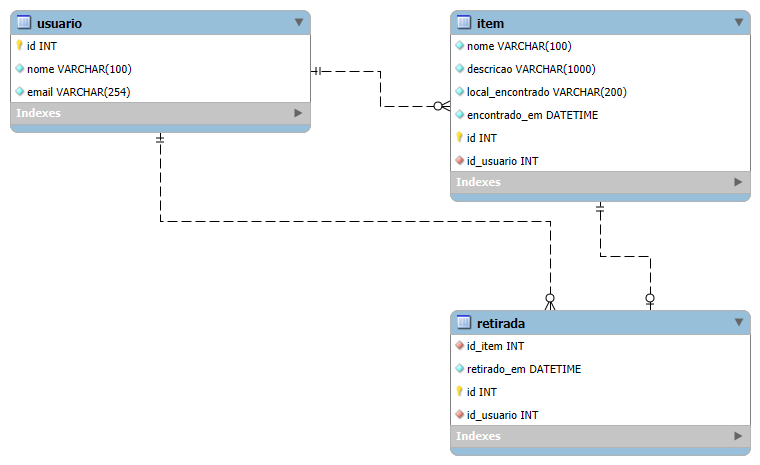
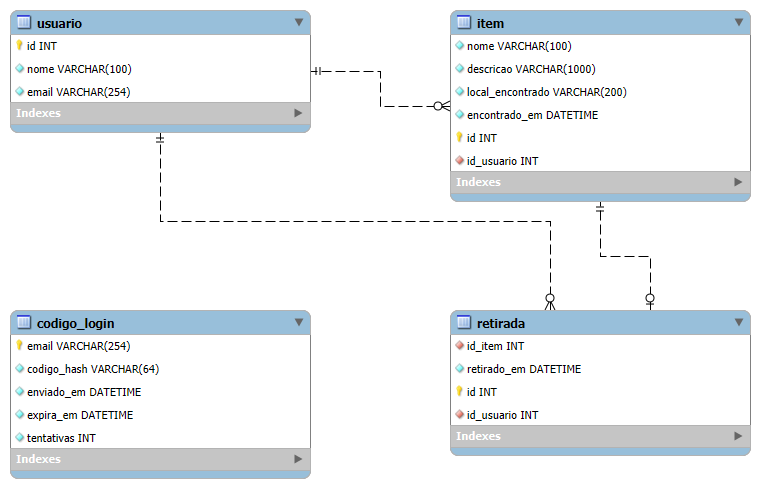
docs: document email login and update Workbench model

diff --git a/README.md b/README.md
@@ -4,7 +4,7 @@ API REST de achados e perdidos do campus Insper, desenvolvida como projeto indiv
 
 ## Endpoints
 
-As rotas de itens e retiradas exigem autenticação. A raiz e a documentação são públicas.
+As rotas de itens e retiradas exigem autenticação. A raiz, as rotas de login e a documentação são públicas.
 
 `GET /` retorna:
 
@@ -70,7 +70,38 @@ Um item com retirada registrada não pode ser excluído: a API retorna 409. Excl
 
 ## Autenticação
 
-As requisições às rotas protegidas devem enviar `Authorization: Bearer <token>`. A API valida a assinatura JWT com HS256, a validade, o emissor `achados-perdidos-insper`, o destinatário `achados-perdidos-api` e o e-mail no campo `sub`, que deve corresponder a um usuário cadastrado. São aceitos apenas os domínios `al.insper.edu.br` e `insper.edu.br`.
+O login usa um código enviado ao e-mail institucional. São aceitos apenas os domínios `al.insper.edu.br` e `insper.edu.br`. Uma conta Gmail configurada no servidor envia as mensagens.
+
+| Método | Rota | Operação |
+| --- | --- | --- |
+| POST | `/auth/solicitar-codigo` | Enviar código ao e-mail informado |
+| POST | `/auth/verificar-codigo` | Confirmar o código e receber um token de acesso |
+
+Solicite o código com:
+
+```json
+{"email": "maria@al.insper.edu.br"}
+```
+
+Depois, confirme o código recebido. No primeiro acesso, informe também o nome:
+
+```json
+{
+  "email": "maria@al.insper.edu.br",
+  "codigo": "123456",
+  "nome": "Maria Silva"
+}
+```
+
+O usuário só é cadastrado após a confirmação. Nos próximos acessos, `nome` pode ser omitido; o login preserva o nome já cadastrado. A resposta contém `token_acesso`, `tipo_token` (`bearer`) e `expira_em`, em UTC. O token vale por uma hora.
+
+O código tem seis dígitos, vale por dez minutos e permite até cinco tentativas incorretas. Cada e-mail pode solicitar um código a cada 60 segundos; um reenvio substitui o anterior. Códigos utilizados, expirados ou bloqueados por tentativas não permitem entrar. O banco armazena somente um hash HMAC-SHA256 do código, vinculado ao e-mail e à chave da aplicação.
+
+Para acessar as rotas protegidas, envie `Authorization: Bearer <token_acesso>`. A API valida a assinatura JWT com HS256, a validade, o emissor `achados-perdidos-insper`, o destinatário `achados-perdidos-api` e o e-mail no campo `sub`, que deve corresponder a um usuário cadastrado. O Swagger permite informar o token no botão **Authorize**.
+
+Dados de login inválidos, incluindo e-mails de outros domínios, retornam 422. Código inválido ou expirado retorna 401; solicitar outro código antes do intervalo retorna 429 com `Retry-After`. Falhas de configuração ou envio retornam 503. Nas rotas protegidas, token ausente ou inválido retorna 401, e e-mail de outro domínio retorna 403.
+
+### Configuração do envio
 
 Configure `AUTH_SECRET_KEY` no `.env` com uma chave aleatória de pelo menos 32 caracteres. Para gerar uma chave localmente:
 
@@ -78,9 +109,14 @@ Configure `AUTH_SECRET_KEY` no `.env` com uma chave aleatória de pelo menos 32 
 uv run python -c 'import secrets; print(secrets.token_urlsafe(32))'
 ```
 
-Sem token, com token inválido ou usuário não cadastrado, a resposta é 401. E-mails de outros domínios recebem 403. Sem a chave configurada, tentativas com token recebem 503. O Swagger permite informar o token no botão **Authorize**.
+Preencha também:
 
-Esta etapa implementa apenas a validação de acesso; a API ainda não oferece login nem emissão de tokens.
+```dotenv
+SMTP_USERNAME=seu.email@gmail.com
+SMTP_PASSWORD=sua_senha_de_app
+```
+
+O envio usa `smtp.gmail.com`, porta 587 e STARTTLS com validação do certificado. Ative a verificação em duas etapas na conta Google e gere uma [senha de app](https://support.google.com/accounts/answer/185833?hl=pt-BR) para `SMTP_PASSWORD`. O remetente é `SMTP_USERNAME`; o destinatário é sempre o e-mail institucional solicitado no login. As credenciais ficam no `.env`, ignorado pelo Git.
 
 ## Modelo de dados
 
@@ -91,6 +127,8 @@ Os modelos, as tabelas e os campos JSON usam nomes em português.
 A tabela `usuario` armazena o `id`, gerado pelo banco, o `nome`, obrigatório e com limite de 100 caracteres, e o `email`, obrigatório e único. O modelo remove espaços nas extremidades do nome, rejeita nomes vazios, valida o e-mail institucional e o converte para minúsculas.
 
 `item.id_usuario` identifica quem cadastrou o pertence encontrado. `retirada.id_usuario` identifica quem retirou o pertence, enquanto `retirada.id_item` aponta para o item. As chaves estrangeiras impedem referências a usuários inexistentes e a exclusão de usuários que tenham itens ou retiradas vinculados. Todos os usuários autenticados podem gerenciar os registros.
+
+A tabela `codigo_login` mantém um registro por e-mail, com o hash do código, horário de envio, expiração e quantidade de tentativas incorretas. Seus horários são armazenados em UTC. Ela também atende o primeiro acesso, antes de existir um usuário cadastrado.
 
 ## Tecnologias
 
@@ -121,7 +159,7 @@ uv run uvicorn app.main:app --reload
 
 O mesmo comando de inicialização do servidor está disponível por meio de `just run`.
 
-Na inicialização, a API cria as tabelas de itens, retiradas e usuários caso elas ainda não existam. A documentação interativa está disponível em `http://127.0.0.1:8000/docs`.
+Na inicialização, a API cria as tabelas de itens, retiradas, usuários e códigos de login caso elas ainda não existam. A documentação interativa está disponível em `http://127.0.0.1:8000/docs`.
 
 Para atualizar um banco de desenvolvimento antigo, com `item` e `collection` vazias, os scripts em `migrations/` devem ser executados uma vez, na ordem numérica, antes de iniciar esta versão da API. Eles renomeiam as tabelas e colunas e adicionam os vínculos com usuários. Bancos com registros existentes precisam ter seus usuários identificados antes dessa alteração. A criação automática de tabelas não atualiza estruturas já existentes.
 
@@ -137,7 +175,7 @@ Com o MySQL iniciado, execute:
 uv run python -m unittest discover -s tests -v
 ```
 
-Os testes verificam a conexão com o MySQL, os CRUDs de itens e retiradas, paginação, validação de dados, integridade dos vínculos, conflitos, autenticação e acesso à documentação. Os registros usados nos testes do CRUD são revertidos ao final de cada teste.
+Os testes verificam a conexão com o MySQL, os CRUDs de itens e retiradas, paginação, validação de dados, integridade dos vínculos, conflitos, autenticação e acesso à documentação. O fluxo de login cobre envio SMTP simulado, cadastro após confirmação, expiração, tentativas, reenvio, falhas de envio e confirmação concorrente do mesmo código.
 
 ## Uso de IA
 
